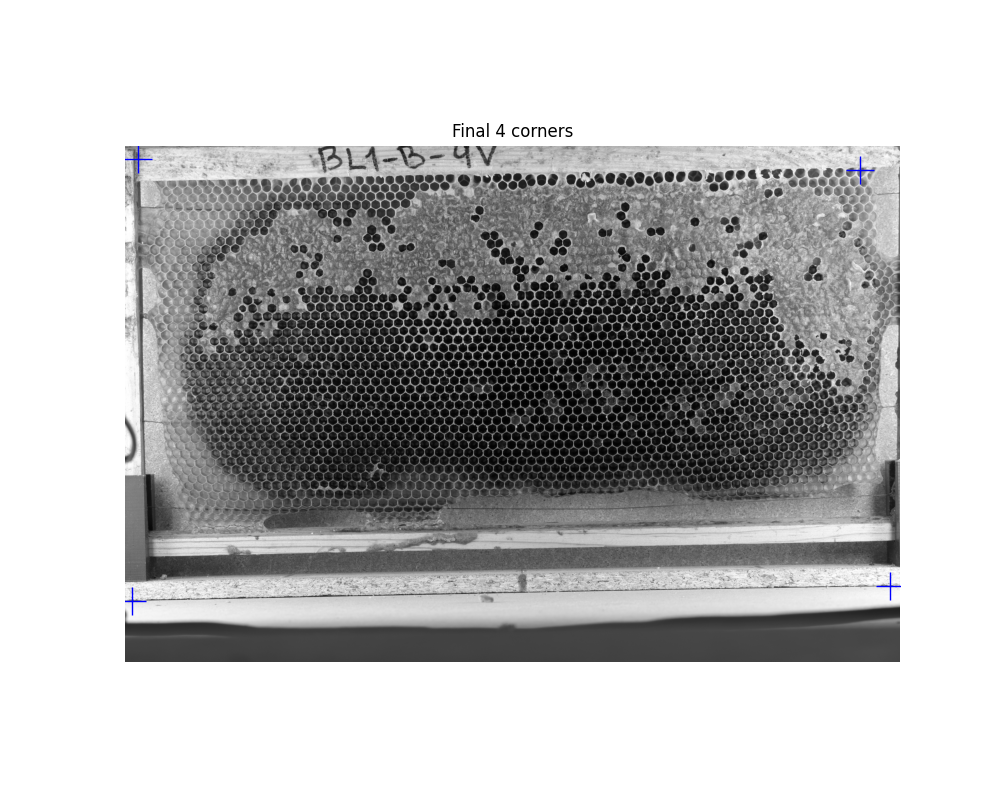
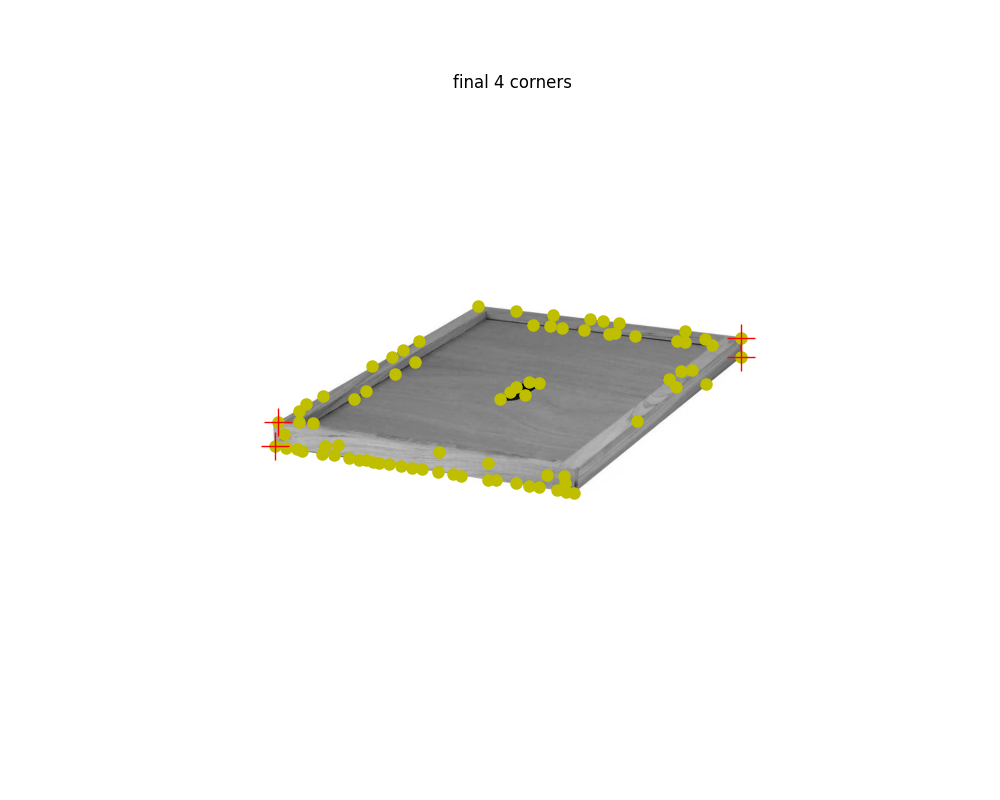
draft angled image rectification

diff --git a/beevision/src/beevision/geometry/rectification.py b/beevision/src/beevision/geometry/rectification.py
@@ -3,9 +3,10 @@ from geometry.helpers import compute_gradients, harris_cornerness_score
 import numpy as np
 from typing import Optional, Tuple
 import matplotlib.pyplot as plt
+import os
 
 
-def draw_x(image, corners, gray):
+def draw_x(image, corners, gray, candidates):
     # debug = image.copy()
     # for (x, y) in corners:
     #     x, y = int(x), int(y)
@@ -22,20 +23,94 @@ def draw_x(image, corners, gray):
     # print(f"Saved debug corners to {debug_path}")
     fig, ax = plt.subplots(1, 1, figsize=(10, 8))
     ax.imshow(gray, cmap=plt.cm.gray)
-    ax.plot(corners[:, 0], corners[:, 1], '+b', markersize=20)  # final 4 in blue
+
+    if candidates is not None:
+        ax.plot(candidates[:, 0], candidates[:, 1],
+                'oy', markersize=8, label="top 8 candidates")
+        
+
+    ax.plot(corners[:, 0], corners[:, 1], '+r', markersize=20)  # final 4 in blue
     ax.axis('off')
-    ax.set_title("Final 4 corners")
+    ax.set_title("final 4 corners")
+
+    debug_path = "/Users/ethanlin/CSCI1430_Homeworks/Comb-puter-Vision/beevision/data/interim/marked_corners/final_four_corners.png"
+    os.makedirs(os.path.dirname(debug_path), exist_ok=True)
     plt.savefig("data/interim/marked_corners/debug_final_corners.png")
     plt.close()
 
-def detect_frame_corners(image: np.ndarray):
-    """
-    Detect the four outer corners of the hive frame.
+    print(f"Saved debug to {debug_path}")
 
-    Returns:
-        corners: 4 x 2 float32 array, unordered or approximately ordered. The points are image coordinates: (x, y).
-        Returns none if detection fails.
-    """
+
+def validation_check(corners):
+    " putpose of this function is a checker for the corner detections to see if they are right"
+    "for instance, if the length between the bttom left cornere and top left corner is too different than"
+    "the length betwen the top right corner and botto mright corner, then the angle is bad, or the corners"
+    "are wrong"
+    top_left, top_right, bottom_right, bottom_left = corners
+
+    left_height = np.linalg.norm(bottom_left - top_left)
+    right_height = np.linalg.norm(bottom_right - top_right)
+    top_width = np.linalg.norm(top_right - top_left)
+    bottom_width = np.linalg.norm(bottom_right - bottom_left)
+
+    height_ratio = min(left_height, right_height) / max(left_height, right_height)
+    if height_ratio < 0.8:  
+        raise ValueError(f"Left/right heights too inconsistent: {left_height:.1f} vs {right_height:.1f} (ratio {height_ratio:.2f})")
+
+    width_ratio = min(top_width, bottom_width) / max(top_width, bottom_width)
+    if width_ratio < 0.8:
+        raise ValueError(f"Top/bottom widths too inconsistent: {top_width:.1f} vs {bottom_width:.1f} (ratio {width_ratio:.2f})")
+
+    aspect_ratio = max(left_height, right_height) / max(top_width, bottom_width)
+    if aspect_ratio < 0.1 or aspect_ratio > 10:
+        raise ValueError(f"Aspect ratio looks wrong: {aspect_ratio:.2f}")
+    
+
+# def find_best_four(candidates):
+
+#     # take top 8
+#     top_n = min(8, len(candidates))
+#     candidates = candidates[:top_n]
+
+#     best_corners = None
+#     best_score = -1
+
+#     for combo in combinations(range(top_n), 4):
+#         pts = candidates[list(combo)]
+
+#         s = pts[:, 0] + pts[:, 1]
+#         d = pts[:, 0] - pts[:, 1]
+#         ordered = np.array([pts[np.argmin(s)], pts[np.argmax(d)],
+#                             pts[np.argmax(s)], pts[np.argmin(d)]])
+
+#         tl, tr, br, bl = ordered
+
+#         left_height  = np.linalg.norm(bl - tl)
+#         right_height = np.linalg.norm(br - tr)
+#         top_width    = np.linalg.norm(tr - tl)
+#         bottom_width = np.linalg.norm(br - bl)
+
+#         if min(left_height, right_height, top_width, bottom_width) < 10:
+#             continue
+
+#         height_ratio = min(left_height, right_height) / max(left_height, right_height)
+#         width_ratio  = min(top_width, bottom_width)   / max(top_width, bottom_width)
+
+#         score = height_ratio + width_ratio
+
+#         if score > best_score:
+#             best_score = score
+#             best_corners = ordered
+
+#     if best_corners is None:
+#         return None
+    
+#     return best_corners
+
+def detect_frame_corners(image: np.ndarray):
+
+    "finds corners and takes the top 8  (4 is too strict) to compute rectification"
+
     gray = cv2.cvtColor(image, cv2.COLOR_BGR2GRAY).astype(float) / 255.0
 
     Ix, Iy = compute_gradients(gray)
@@ -43,9 +118,15 @@ def detect_frame_corners(image: np.ndarray):
     h_score = harris_cornerness_score(Ix, Iy)
 
     from skimage.feature import peak_local_max
-    coords = peak_local_max(h_score, min_distance=50, threshold_rel=0.01)
 
-    candidates = coords[:, ::-1].astype(np.float32)  
+    m_dist = 10
+    thresh_rel = 0.01
+
+    coords = peak_local_max(h_score, min_distance=m_dist, threshold_rel=thresh_rel)
+
+    candidates = coords[:, ::-1].astype(np.float32) 
+
+    print(f"Number of candidates found: {len(candidates)}") 
     
     if len(candidates) < 4: # most extreme points
         return None
@@ -57,21 +138,17 @@ def detect_frame_corners(image: np.ndarray):
                         candidates[np.argmax(s)],  candidates[np.argmin(d)],   
     ])
 
-    draw_x(image, corners, gray)
+    # validation_check(corners)
 
-    print("Detected corners:")
-    print(f"  top-left:     {corners[0]}")
-    print(f"  top-right:    {corners[1]}")
-    print(f"  bottom-right: {corners[2]}")
-    print(f"  bottom-left:  {corners[3]}")
+    # most_rectangualr_corners = find_best_four(candidates)
+    
+    draw_x(image, corners, gray, candidates)
+    
 
     return corners
 
 
 def order_corners(found_corners):
-    """
-    order corners to top-left, top-right, bottom-right, bottom-left
-    """
     if found_corners is None or len(found_corners) == 0 or len(found_corners) != 4:
         return None
 
@@ -79,73 +156,96 @@ def order_corners(found_corners):
 
     ordered = np.zeros((4, 2), dtype=np.float32)
 
-    # x + y is smallest at top-left, largest at bottom-right
     s = corners.sum(axis=1)
     ordered[0] = corners[np.argmin(s)]
     ordered[2] = corners[np.argmax(s)]
 
-    # x - y is smallest at bottom-left, largest at top-right
     diff = corners[:, 0] - corners[:, 1]
     ordered[1] = corners[np.argmax(diff)]
     ordered[3] = corners[np.argmin(diff)]
 
+    print("src corners:")
+    print(f"  top-left:     {ordered[0]}")
+    print(f"  top-right:    {ordered[1]}")
+    print(f"  bottom-right: {ordered[2]}")
+    print(f"  bottom-left:  {ordered[3]}")
+
     return ordered
 
 
-def compute_homography(corners: np.ndarray, output_size: tuple[int, int]):
-    """
-    compute homogrpahy given the four courners to 'flatten' the image
+def check_reporojection(src, dst, H):
+    print("reprojection check:")
+    for i in range(4):
+        x, y = src[i]
+        pt = H @ np.array([x, y, 1])
+        pt = pt / pt[2] 
+        print(f"  src {src[i]}, projected {pt[:2]}, expected {dst[i]}")
 
-    arguments:
-        corners: 4 x 2 corners in order: top-left, top-right, bottom-right, bottom-left
-        output_size: (width, height)
-
-    returns: H: 3 x 3 homography matrix
-    """
-    width, height = output_size
+def compute_homography(corners: np.ndarray, width, height):
 
     src = order_corners(corners)
 
     dst = np.array( [[0, 0], [width - 1, 0], [width - 1, height - 1], [0, height - 1]], dtype=np.float32)
 
-    H = cv2.getPerspectiveTransform(src, dst)
+    print("dst corners:")
+    print(f"  top-left:     {dst[0]}")
+    print(f"  top-right:    {dst[1]}")
+    print(f"  bottom-right: {dst[2]}")
+    print(f"  bottom-left:  {dst[3]}")
+
+    # H = cv2.getPerspectiveTransform(src, dst)
+
+    A = []
+    for i in range(4):
+        x, y = src[i]
+        xp, yp = dst[i]
+        A.append([-x, - y, -1,  0,  0 ,  0,  xp * x,  xp * y,  xp])
+
+        A.append([ 0,  0,  0, -x, -y, -1,  yp * x,  yp * y,  yp])
+    
+    A = np.array(A)
+
+    _, _, right_singluar_vectors = np.linalg.svd(A)
+    
+    h = right_singluar_vectors[-1 , :]          
+    H = h.reshape(3, 3)  
+
+    H = H  / H[2, 2]
+
+    check_reporojection(src, dst, H)
+
     return H
 
-def warp_frame(image: np.ndarray, corners: np.ndarray, output_size: tuple[int, int] = (1024, 1536)):
-    """
-    Warp the hive frame into a front-facing rectangle.
+def warp(image: np.ndarray, corners: np.ndarray, ):
 
-    Args:
-        image: input BGR/RGB image
-        corners: detected frame corners
-        output_size: (width, height)
+    width = 5000
+    height = 3000
 
-    Returns:
-        rectified image
-    """
-    H = compute_homography(corners, output_size)
+    H = compute_homography(corners, width, height)
 
-    rectified = cv2.warpPerspective(image, H, output_size, flags=cv2.INTER_LINEAR,)
-
-    return rectified
-
-def rectify_frame(image: np.ndarray, output_size: tuple[int, int] = (1024, 1536)):
-    """
-    Full rectification pipeline.
-
-    If corners are provided, use them.
-    Otherwise, try to detect corners automatically.
-
-    Returns:
-        rectified: warped frame image
-        H: homography matrix
-    """
-    corners = detect_frame_corners(image)
-
-    ordered = order_corners(corners)
-    H = compute_homography(ordered, output_size)
+    output_size: Tuple[int, int] = (width, height)
 
     rectified = cv2.warpPerspective(image, H, output_size, flags=cv2.INTER_LINEAR)
+
+    print(f"After warp - pixel at (0, 0): {rectified[0, 0]}")
+    print(f"After warp - pixel at (0, 0): {rectified[0, 0]}")
+
+    return rectified, H
+
+def rectify_frame(image: np.ndarray):
+
+    corners = detect_frame_corners(image)
+
+    print(f"corners: {corners}")
+
+    if corners is None:
+        # print("Corners is None")
+        raise ValueError("PLEASE RETAKE IMAGE, CORNERS NOT DETECTED")
+        # return None
+
+    rectified, H = warp(image, corners)
+
+    print(f"rectified shape: {rectified.shape}")
 
     return rectified, H
 

diff --git a/beevision/src/beevision/pipeline/analyze_frame.py b/beevision/src/beevision/pipeline/analyze_frame.py
@@ -8,51 +8,35 @@ import cv2
 from geometry.rectification import rectify_frame
 
 
-def analyze_frame(image_path: str):
+def analyze_frame(image_path: str, index):
+    
     image = cv2.imread(image_path)
 
-    rectified, H = rectify_frame(image, output_size=(1024, 1536))
+    if image is None:
+        print("no image loaded error")
+        return
+
+    rectified, H = rectify_frame(image)
+
+    if rectified is None:
+        print("rectified is none")
+        return
 
     out_dir = Path("/Users/ethanlin/CSCI1430_Homeworks/Comb-puter-Vision/beevision/data/interim/rectified") # save theim ages in interim for future segmentation
     out_dir.mkdir(parents=True, exist_ok=True)
 
-    out_path = out_dir / "rectified_frame.jpg"
-    cv2.imwrite(str(out_path), rectified)
+    out_path = out_dir / f"rectified_frame_{index}.jpg"
+    # cv2.imwrite(str(out_path), rectified)
+    result = cv2.imwrite(str(out_path), rectified)
+    print(f"Write success: {result}")
+    print(f"Saved to {out_path}")
 
-
-    # cv2.imwrite("data/processed/rectified_frame_photo.jpg", rectified)
-
-    # return {
-    #     "rectified_image": rectified,
-    #     "homography": H,
-    # }
-
-# def analyze_frame(image_path):
-    
-#     image = load_image(image_path)
-
-#     rectified = rectify_frame(image)
-
-#     cell_segmentation = segment_cells(rectified)
-
-#     mite_detections = detect_mites(rectified)
-
-#     health_metrics = compute_health_metrics(
-#         segmentation=cell_segmentation,
-#         mites=mite_detections,
-#     )
-
-#     health_score = compute_health_score(health_metrics)
-
-#     return {
-#         "rectified_image": rectified,
-#         "cell_segmentation": cell_segmentation,
-#         "mite_detections": mite_detections,
-#         "metrics": health_metrics,
-#         "health_score": health_score,
-#     }
 
 # test:
 if __name__ == "__main__":
-    path = "/Users/ethanlin/CSCI1430_Homeworks/Comb-puter-Vision/beevision/data/raw/deepbee-classification/BEE_HOPE GIMONDE 2016_03_23 BL1_G FILE0658.JPG"
-    analyze_frame(path) 
+    # path = "/Users/ethanlin/CSCI1430_Homeworks/Comb-puter-Vision/beevision/data/test_images_rectification/control_test.jpg"
+    path2 = "/Users/ethanlin/CSCI1430_Homeworks/Comb-puter-Vision/beevision/data/test_images_rectification/tilted_beehive_6.jpg"
+    # path3 = "/Users/ethanlin/CSCI1430_Homeworks/Comb-puter-Vision/beevision/data/test_images_rectification/tilted_beehive_3.jpg"
+    # analyze_frame(path, 1) 
+    analyze_frame(path2, 2) 
+    # analyze_frame(path3, 3) 
